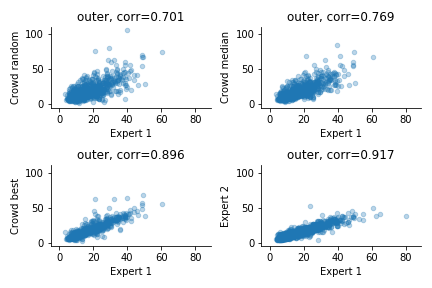
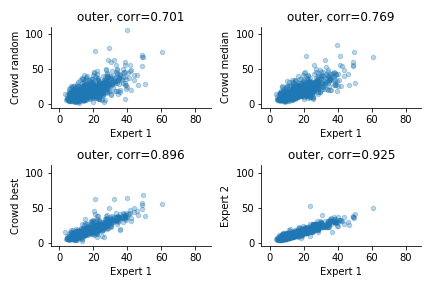
Fixed correlation plots, some tasks didn't have valid results

Changed region(s): [[0.6319, 0.7188, 0.9028, 0.8438], [0.662, 0.5, 0.9329, 0.5625], [0.9329, 0.75, 0.963, 0.7812]]

diff --git a/data.py b/data.py
@@ -92,13 +92,13 @@ def compute_wap(inner, outer):
   return (outer - inner) / outer * 100 # wall area percentage
 
 def compute_wtr(inner, outer):
-   """Computes the wall thickness ratio (WTR) from the inner and outer airway measurements."""  
+  """Computes the wall thickness ratio (WTR) from the inner and outer airway measurements."""  
   return ((area_to_diam(outer) - area_to_diam(inner)) / 2) / area_to_diam(outer) 
     
 
 
 def get_df_crowd(results_file):
-    """"Processes the crowd results file to create dataframes for tasks, results and annotations."""
+    """Processes the crowd results file to create dataframes for tasks, results and annotations."""
     
     # Load the raw crowd file 
     with open(results_file) as json_file:
@@ -242,7 +242,6 @@ def get_ellipse_patch_vertices(annotation):
 
     return ell_patch, vertices
 
-lculate several properties of the result's annotations, to be able to later decide if the result is valid or not 
 
 def get_result_properties(res, df_annot):
     """Calculate properties of the result, such as number of ellipses, whether they were resized by the worker etc.
@@ -256,19 +255,19 @@ def get_result_properties(res, df_annot):
     annot_inside = np.zeros(num_annot)
     
     #Check if ellipses are inside each other 
-        for i in range(0, num_annot):
-          mask1 = get_annotation_mask(annotations.iloc[i])
-          for j in range(i+1,num_annot):
-              mask2 = get_annotation_mask(annotations.iloc[j])
+    for i in range(0, num_annot):
+        mask1 = get_annotation_mask(annotations.iloc[i])
+        for j in range(i+1,num_annot):
+            mask2 = get_annotation_mask(annotations.iloc[j])
                       
-              intersection = np.logical_and(mask1, mask2)
+            intersection = np.logical_and(mask1, mask2)
 
-              diff1 = np.logical_xor(mask1,intersection)
-              diff2 = np.logical_xor(mask2,intersection)
+            diff1 = np.logical_xor(mask1,intersection)
+            diff2 = np.logical_xor(mask2,intersection)
               
-              if (np.sum(diff1) == 0)  | (np.sum(diff2) == 0):
-                  annot_inside[i] = annotations.iloc[j]['annotation_id']
-                  annot_inside[j] = annotations.iloc[i]['annotation_id']
+            if (np.sum(diff1) == 0)  | (np.sum(diff2) == 0):
+                annot_inside[i] = annotations.iloc[j]['annotation_id']
+                annot_inside[j] = annotations.iloc[i]['annotation_id']
 
     inside = annot_inside.all()
 

diff --git a/figures.py b/figures.py
@@ -13,6 +13,7 @@ import matplotlib.pyplot as plt
 import matplotlib.image as mpimg 
 import seaborn as sns
 from zipfile import ZipFile
+import math
 
 import data as crowddata
 
@@ -164,18 +165,23 @@ def scatter_worker_valid(df_res_valid, df_res_invalid):
 
 def scatter_correlation_by_part(df_random, df_median, df_best, df_truth, part):
     """Scatter task correlations between expert and crowd, for a specific measurement"""
-    
+           
+    has_crowd_result = df_median.loc[df_median['num_combined'] > 0]
+    df_truth = df_truth.loc[df_truth['task_id'].isin(has_crowd_result['task_id'])]
+        
     df_random = pd.merge(df_random, df_truth, on='task_id', how='outer')    
     df_median = pd.merge(df_median, df_truth, on='task_id', how='outer')
     df_best = pd.merge(df_best, df_truth, on='task_id', how='outer')
-    
-        
+ 
     #Get the correlations - TODO ideally we should have a method that does all combining at once
     
     corr1 = df_random[part+ '1'].corr(df_random[part+'_random'])
     corr2 = df_median[part+ '1'].corr(df_median[part+'_median'])
     corr3 = df_best[part+ '1'].corr(df_best[part+'_best'])
-    corr4 = df_best[part+ '1'].corr(df_best[part+'2'])
+    corr4 = df_truth[part+ '1'].corr(df_truth[part+'2'])
+    
+    n1 = df_random[part+'_random'].count()
+    print(n1)
   
     # Plot the areas
     fig, axes = plt.subplots(nrows=2, ncols=2)
@@ -207,7 +213,7 @@ def scatter_correlation_by_part(df_random, df_median, df_best, df_truth, part):
     ax2.set_title(t) 
     print(t)
     
-    ax3 = df_best.plot.scatter(ax=axes[1][1], x=part+'1',  y=part+'2', alpha = 0.3)
+    ax3 = df_truth.plot.scatter(ax=axes[1][1], x=part+'1',  y=part+'2', alpha = 0.3)
     ax3.set_xlabel('Expert 1')
     ax3.set_ylabel('Expert 2')  
     t = part + ', corr={:01.3f}'.format(corr4)
